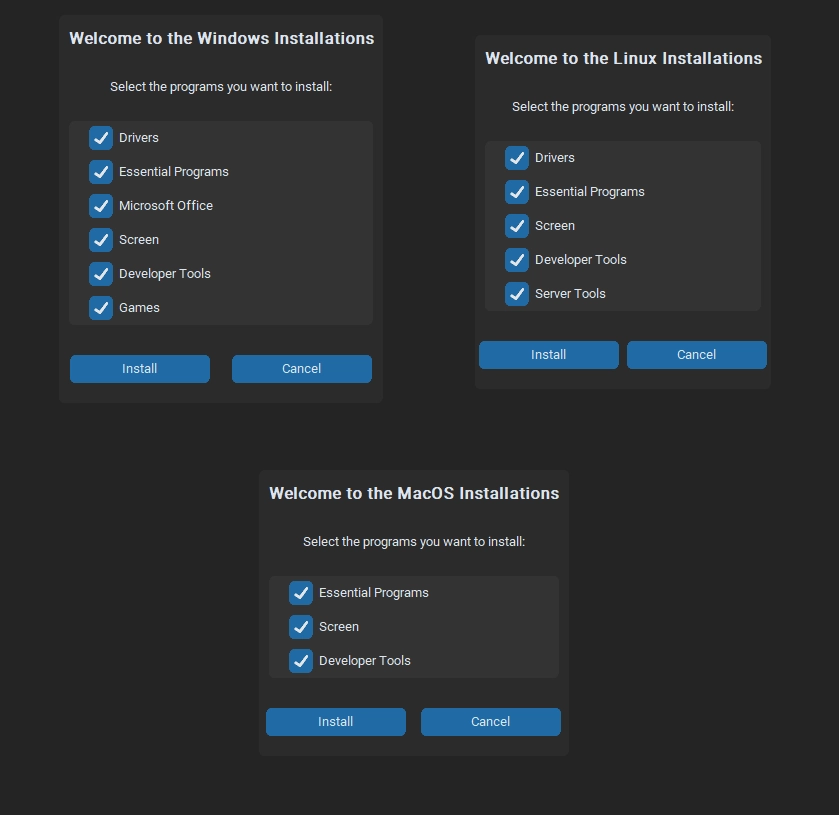
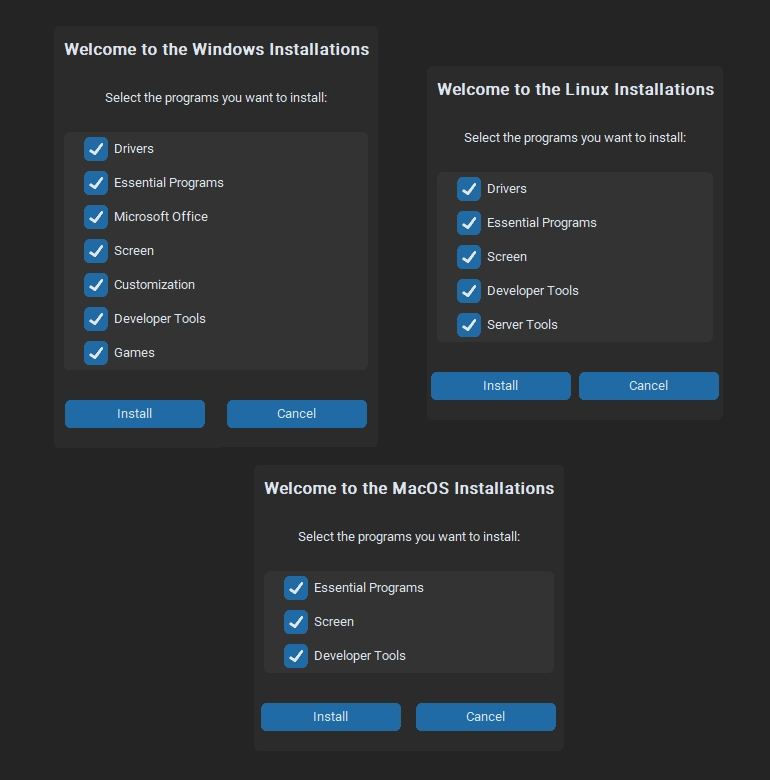
Added time sleep

Changed region(s): [[0.0623, 0.0308, 0.4987, 0.5538], [0.561, 0.0615, 0.9351, 0.5231], [0.3117, 0.5846, 0.7481, 0.9538]]

diff --git a/main.py b/main.py
@@ -1,4 +1,4 @@
-from src.lib.externalLibs import ctk
+from src.lib.externalLibs import ctk, time
 from src.lib import installations, log, system
 
 # * Main Variables
@@ -47,7 +47,7 @@ class App(ctk.CTk):  # type: ignore
         self.checkedButtonDevelopment = ctk.BooleanVar()
         self.checkButtonDevelopment = ctk.CTkCheckBox(self.options_frame, text="Developer Tools", onvalue=True, offvalue=False, variable=self.checkedButtonDevelopment)
         self.checkButtonDevelopment.select()
-        self.checkButtonDevelopment.grid(padx=20, pady=5, row=4, column=0, sticky="w")
+        self.checkButtonDevelopment.grid(padx=20, pady=5, row=5, column=0, sticky="w")
 
         self.checkedButtonServer = ctk.BooleanVar()
         self.checkButtonServer = ctk.CTkCheckBox(self.options_frame, text="Server Tools", onvalue=True, offvalue=False, variable=self.checkedButtonServer)
@@ -72,14 +72,14 @@ class App(ctk.CTk):  # type: ignore
             self.checkButtonCustomization.grid(padx=20, pady=5, row=4, column=0, sticky="w")
 
             self.checkButtonGames.select()
-            self.checkButtonGames.grid(padx=20, pady=5, row=6, column=0, sticky="w")
+            self.checkButtonGames.grid(padx=20, pady=5, row=7, column=0, sticky="w")
 
         if 'Linux' in system.nameSO():
             self.checkButtonDrivers.select()
             self.checkButtonDrivers.grid(padx=20, pady=5, row=0, column=0, sticky="w")
 
             self.checkButtonServer.select()
-            self.checkButtonServer.grid(padx=20, pady=5, row=5, column=0, sticky="w")
+            self.checkButtonServer.grid(padx=20, pady=5, row=6, column=0, sticky="w")
 
     def install(self):
         self.destroy()  # Close the GUI before starting installations
@@ -87,30 +87,37 @@ class App(ctk.CTk):  # type: ignore
         if self.checkedButtonEssentials.get():
             log.log(f'Install Essential Programs: {self.checkedButtonEssentials.get()}')
             log.log(installations.essentials())
+            time.sleep(3)
 
         if self.checkedButtonOffice.get():
             log.log(f'Install Office: {self.checkedButtonOffice.get()}')
             log.log(installations.office())
+            time.sleep(3)
 
         if self.checkedButtonDevelopment.get():
             log.log(f'Install Development Programs: {self.checkedButtonDevelopment.get()}')
             log.log(installations.development())
+            time.sleep(3)
 
         if self.checkedButtonGames.get():
             log.log(f'Install Games: {self.checkedButtonGames.get()}')
             log.log(installations.games())
+            time.sleep(3)
 
         if self.checkedButtonScreen.get():
             log.log(f'Install Screen: {self.checkedButtonScreen.get()}')
             log.log(installations.screen())
+            time.sleep(3)
 
         if self.checkedButtonServer.get():
             log.log(f'Install Server: {self.checkedButtonServer.get()}')
             log.log(installations.server())
+            time.sleep(3)
 
         if self.checkedButtonCustomization.get():
             log.log(f'Install Customization: {self.checkedButtonCustomization.get()}')
             log.log(installations.customization())
+            time.sleep(3)
 
     def cancel(self):
         log.log('Installation cancelled by the user')

diff --git a/src/lib/externalLibs/__init__.py b/src/lib/externalLibs/__init__.py
@@ -1,4 +1,4 @@
-import sys, os, subprocess, threading, datetime, inspect, winreg, re, shutil, platform
+import sys, os, subprocess, threading, datetime, inspect, winreg, re, shutil, platform, time
 import importlib
 
 try:
